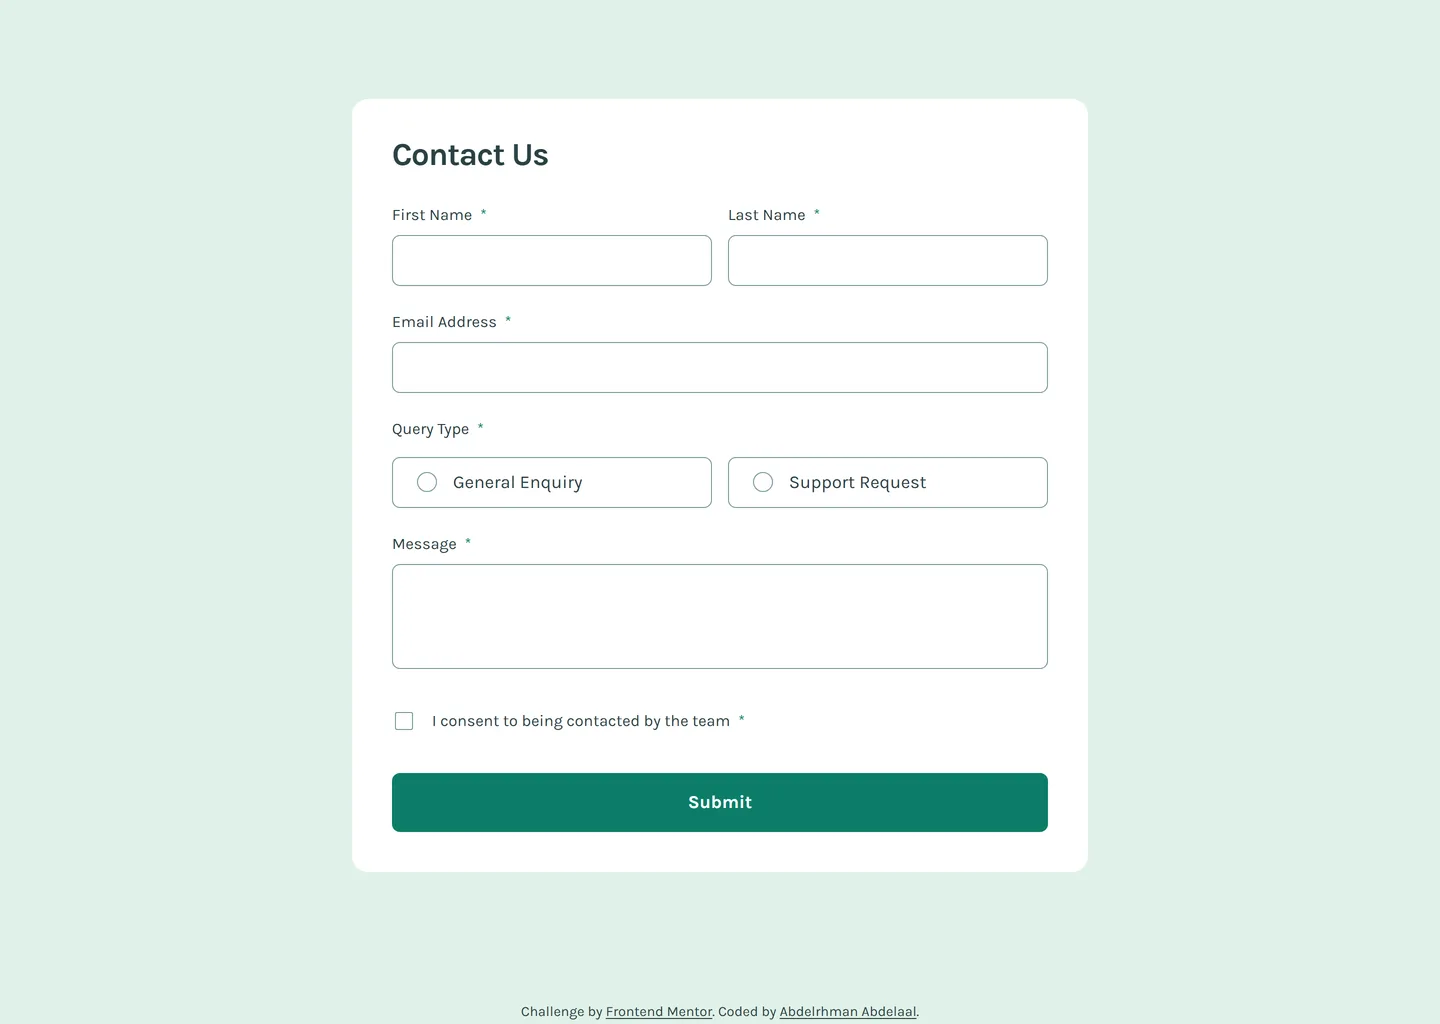
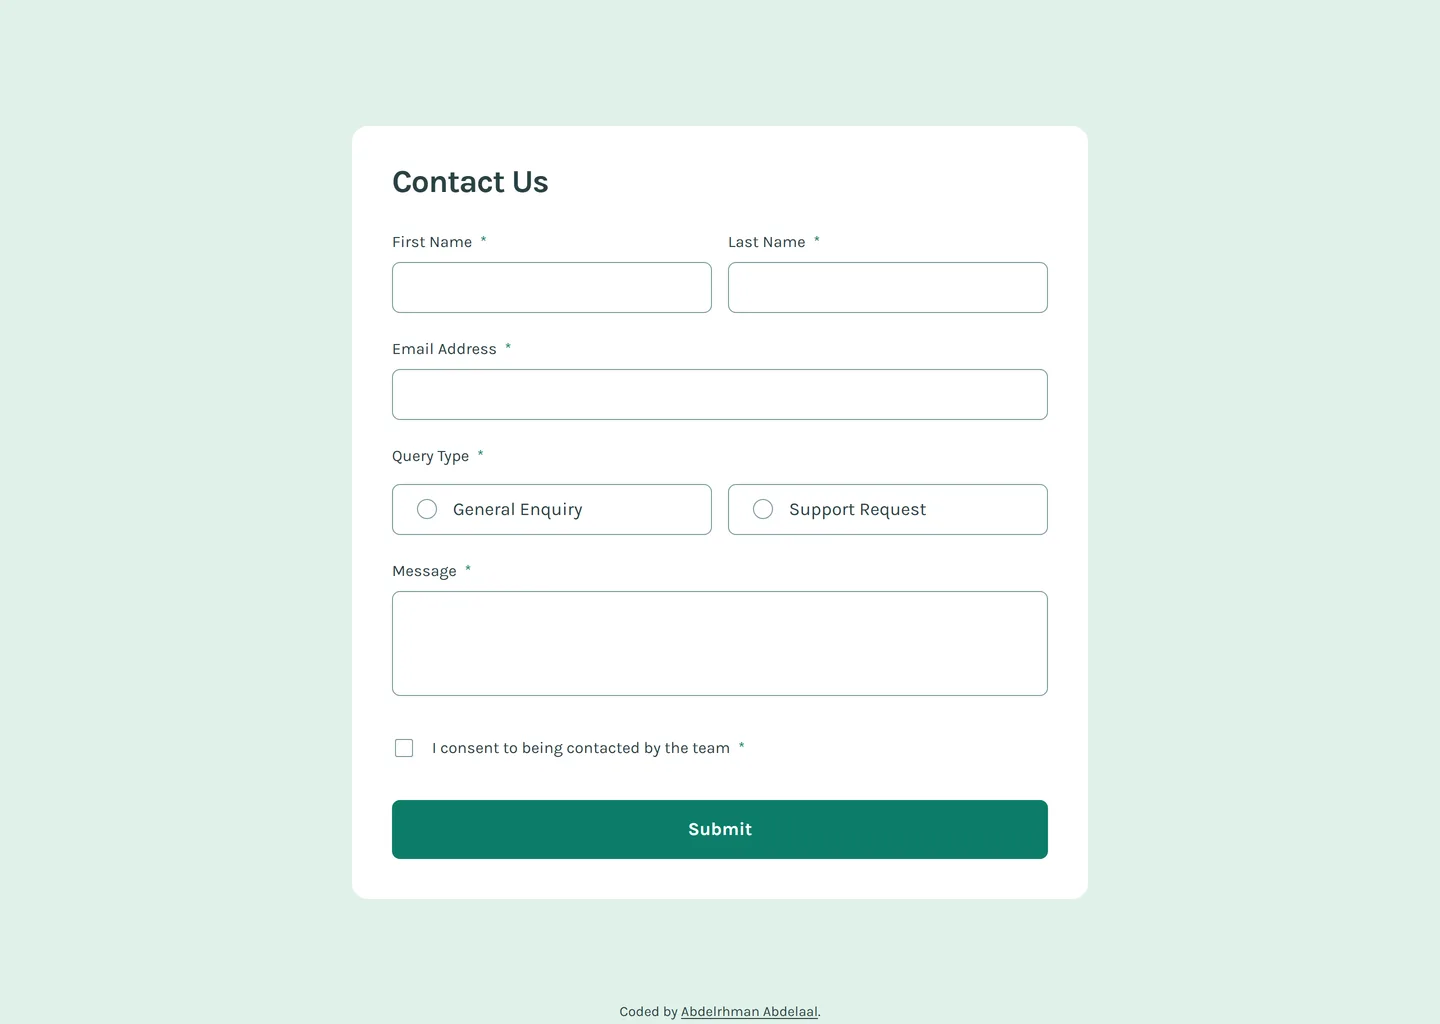
fix: update author links in README and footer for accuracy

diff --git a/src/components/layout/footer.tsx b/src/components/layout/footer.tsx
@@ -2,16 +2,7 @@ export default function Footer() {
   return (
     <footer className="absolute inset-x-0 bottom-0 px-4 pb-0.5">
       <p className="text-center text-sm">
-        Challenge by{" "}
-        <a
-          className="v-footer-link"
-          href="https://www.frontendmentor.io?ref=challenge"
-          target="_blank"
-          rel="noopener noreferrer"
-        >
-          Frontend Mentor
-        </a>
-        . Coded by{" "}
+        Coded by{" "}
         <a
           className="v-footer-link"
           href="https://www.linkedin.com/in/abdelrhman-vanta/"

diff --git a/README.md b/README.md
@@ -117,6 +117,6 @@ the checkbox, radio and check marks are CSS and inline SVG.
 
 ## Author
 
-- UpWork - [Abdelrhman Abdelaal](https://upwork.com/freelancers/~01f0a9479696b61f49)
+- UpWork - [Abdelrhman Abdelaal](https://www.upwork.com/freelancers/mrblackvanta)
 - Frontend Mentor - [@MrBlackvanta](https://www.frontendmentor.io/profile/MrBlackvanta)
 - LinkedIn - [Abdelrhman Abdelaal](https://www.linkedin.com/in/abdelrhman-vanta/)
